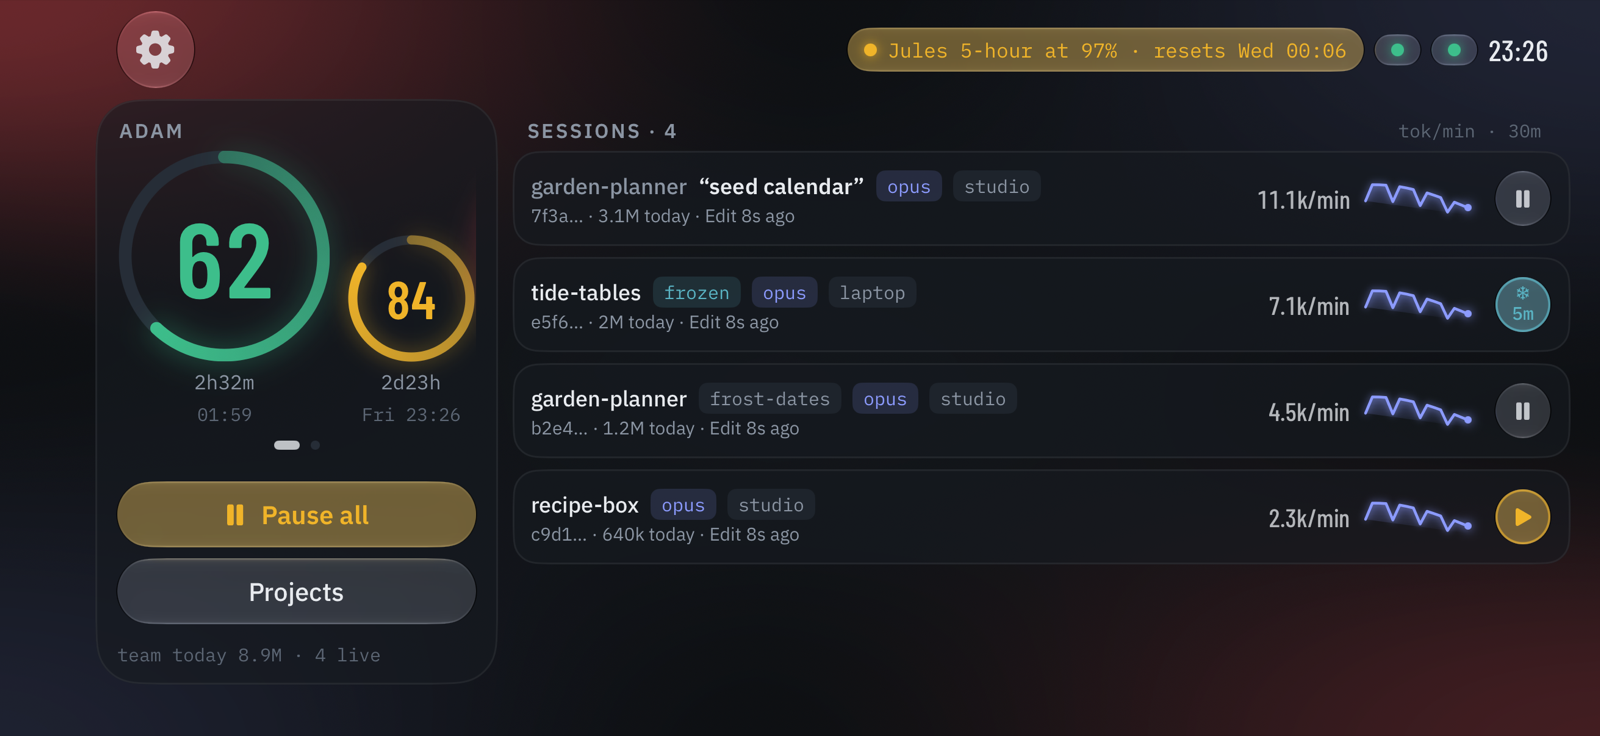
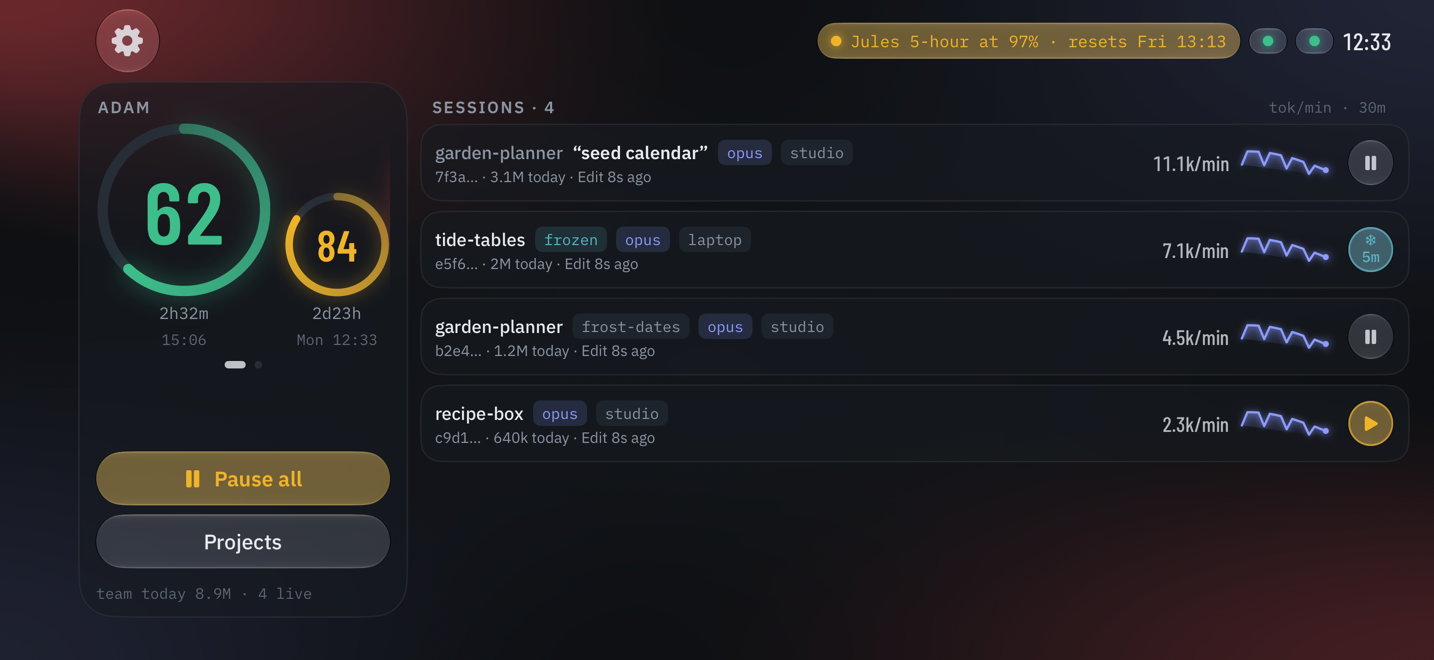
docs: landscape screenshots, header, and the test that captures them
- StoreScreenshotTests: the landscape dock, projects and project screens from demo data, for
  the App Store and the README.
- README: header banner; the wide dock and a project in landscape, freshly captured.

Claude-Session: https://claude.ai/code/session_01H63XDUvZB2J3JWc7KfseDX

diff --git a/AppUITests/StoreScreenshotTests.swift b/AppUITests/StoreScreenshotTests.swift
@@ -1,0 +1,50 @@
+// SPDX-License-Identifier: MIT
+// Copyright (c) 2026 Even Seal Productions
+
+import XCTest
+
+/// The landscape set for the App Store and the README: demo data (`-UsageDeckDemo`, Debug only),
+/// whole-screen captures. Landscape is how the deck is meant to sit on a desk stand.
+final class StoreScreenshotTests: XCTestCase {
+    private var app: XCUIApplication!
+
+    override func setUp() {
+        continueAfterFailure = false
+        app = XCUIApplication()
+        app.launchArguments = ["-UsageDeckDemo"]
+        app.launch()
+        XCUIDevice.shared.orientation = .landscapeLeft
+    }
+
+    override func tearDown() {
+        XCUIDevice.shared.orientation = .portrait
+    }
+
+    @MainActor
+    func testLandscapeScreens() {
+        XCTAssertTrue(app.staticTexts.containing(NSPredicate(format: "label BEGINSWITH 'team today'")).firstMatch
+            .waitForExistence(timeout: 10))
+        // Let the rings and sparklines finish their entrance.
+        sleep(2)
+        snap("landscape-1-dock")
+
+        app.buttons["Projects"].tap()
+        XCTAssertTrue(app.staticTexts["photo-archive"].waitForExistence(timeout: 5))
+        sleep(1)
+        snap("landscape-2-projects")
+
+        app.staticTexts["garden-planner"].firstMatch.tap()
+        XCTAssertTrue(app.staticTexts["share of today"].waitForExistence(timeout: 5))
+        sleep(2)
+        snap("landscape-3-project")
+    }
+
+    @MainActor
+    private func snap(_ name: String) {
+        // app.screenshot() comes back as a portrait frame cut square in landscape; the screen's is whole.
+        let attachment = XCTAttachment(screenshot: XCUIScreen.main.screenshot())
+        attachment.name = name
+        attachment.lifetime = .keepAlways
+        add(attachment)
+    }
+}

diff --git a/CLAUDE.md b/CLAUDE.md
@@ -82,7 +82,7 @@ documented false positive only.
 | --- | --- |
 | `Packages/UsageCore/` | SwiftPM, no UI. `Daemon/` (DTOs, `DaemonAPI`, `EventStream`, `Endpoints`, errors), `Net/` (`PinnedTrust`, `BoundedBody`), `Pairing/`, `Device/` (`DeviceReducer` + `DeviceClient` actor), `Model/` (`TeamState`, `Aging`, `BurnHistory`, `Version`, `Highest`, `SetupCheck`, `UserNames`), `Pause/`, `Alerts/`, `Format/`, `Watch/` (`WatchSnapshot`, wire messages), `Storage/TokenStore`. Linked by all four targets. |
 | `App/` | iOS app `com.evenseal.usagedeck` (iOS 18). `Store/` (`DeckStore` — the one `@Observable` app model; `WatchBridge`, `AlertNotifier`, `BackgroundRefresh`, `DemoData` — "Try the demo" on the empty home screen in every build, memory-only and left before any real pairing; its launch arguments are Debug-only), `UI/` (Ledger, WideDock, Project/Projects, Device, Settings, Pairing, shared `Components/`), `Theme/` (palette, `DeckBackdrop` aurora tinted by the worst limit, `deckCard`, zoom sources; bundled OFL fonts in `Resources/Fonts`). The app also compiles `SharedUI/Theme.swift`, `RingGauge.swift` and `Materials.swift` (`deckGlass`: Liquid Glass on iOS/watchOS 26, frosted material before) so phone and watch draw the same rings and glass. Home lists rank by live rate (`ActivityOrder`, 5-minute `BurnHistory.rateWindow`), not by tokens today. App logic that can be tested without UIKit lives in UsageCore `Deck/` (`DeckSettings`, `DeviceRegistry`, `InstallID`, `AddressMerge`, `PairingInput`, `DeckText` + `DeviceName` — what may be Markdown and what a name may hold; `PairingFlow` + `PairingPrompt` — the pairing sheet's state, what a link from outside may do, and the confirmation's wording; `PauseVisuals`, `HomeEmpty`, `DeckAlerts`, `SnapshotDiff`, `FirstLoad` — when a freshly paired device's first refresh has landed, so the "Connecting…" overlay never hands over to rows of "unknown"; `ConnectTracker` — one attempt at a time, foreground-only timeout; `RepairNotice` — the copy for a lost pairing). |
-| `AppUITests/` | XCUITest smoke test: launches with `-UsageDeckDemo` (Debug only, made-up devices, no daemon) and walks every screen; `TryTheDemoTests` runs with no arguments, as App Review does. |
+| `AppUITests/` | XCUITest smoke test: launches with `-UsageDeckDemo` (Debug only, made-up devices, no daemon) and walks every screen; `TryTheDemoTests` runs with no arguments, as App Review does; `StoreScreenshotTests` captures the landscape App Store and README set (whole-screen captures; export the attachments through `NSImage`, which applies their orientation). |
 | `Watch/` | watchOS app `com.evenseal.usagedeck.watchkitapp` (watchOS 11), single target. |
 | `Widgets/` | iOS widget extension `.widgets`. |
 | `Complications/` | watchOS widget extension `.watchkitapp.complications`. |

diff --git a/README.md b/README.md
@@ -1,5 +1,7 @@
 # Usage Deck for iPhone and Apple Watch
 
+<img src="docs/images/header.png" width="100%" alt="Usage Deck: your Claude Code rate limits and every live session, on iPhone, Apple Watch and your desk">
+
 Not affiliated with Anthropic.
 
 See how close your Claude account is to its 5-hour and 7-day limits, how many tokens your Claude
@@ -18,10 +20,14 @@ Every picture here is the app's demo mode: made-up devices, accounts and project
 | --- | --- | --- | --- | --- |
 | <img src="docs/images/iphone-ledger.png" width="160" alt="iPhone home: two accounts and three live projects"> | <img src="docs/images/iphone-ledger-expanded.png" width="160" alt="A project unfolded into its sessions"> | <img src="docs/images/iphone-project.png" width="160" alt="Project drill-in with a five-hour burn chart"> | <img src="docs/images/iphone-device.png" width="160" alt="Device screen with its setup checklist"> | <img src="docs/images/iphone-pairing.png" width="160" alt="Pairing sheet"> |
 
-Landscape turns the iPhone into the wide dock, and a re-pair that would change a device's
-certificate says so first:
+Landscape turns the iPhone into the wide dock, the way it looks best on a desk stand, and every
+screen follows it round:
 
-<img src="docs/images/iphone-wide-dock.png" width="420" alt="Landscape wide dock"> <img src="docs/images/iphone-re-pair-warning.png" width="160" alt="Re-pair confirmation warning that the certificate differs">
+<img src="docs/images/iphone-wide-dock.png" width="520" alt="Landscape wide dock: an account's limit rings beside every live session"> <img src="docs/images/iphone-landscape-project.png" width="520" alt="A project's five-hour burn chart in landscape">
+
+A re-pair that would change a device's certificate says so first:
+
+<img src="docs/images/iphone-re-pair-warning.png" width="160" alt="Re-pair confirmation warning that the certificate differs">
 
 Widgets (small, medium, and the lock-screen circular, rectangular and inline families):
 
